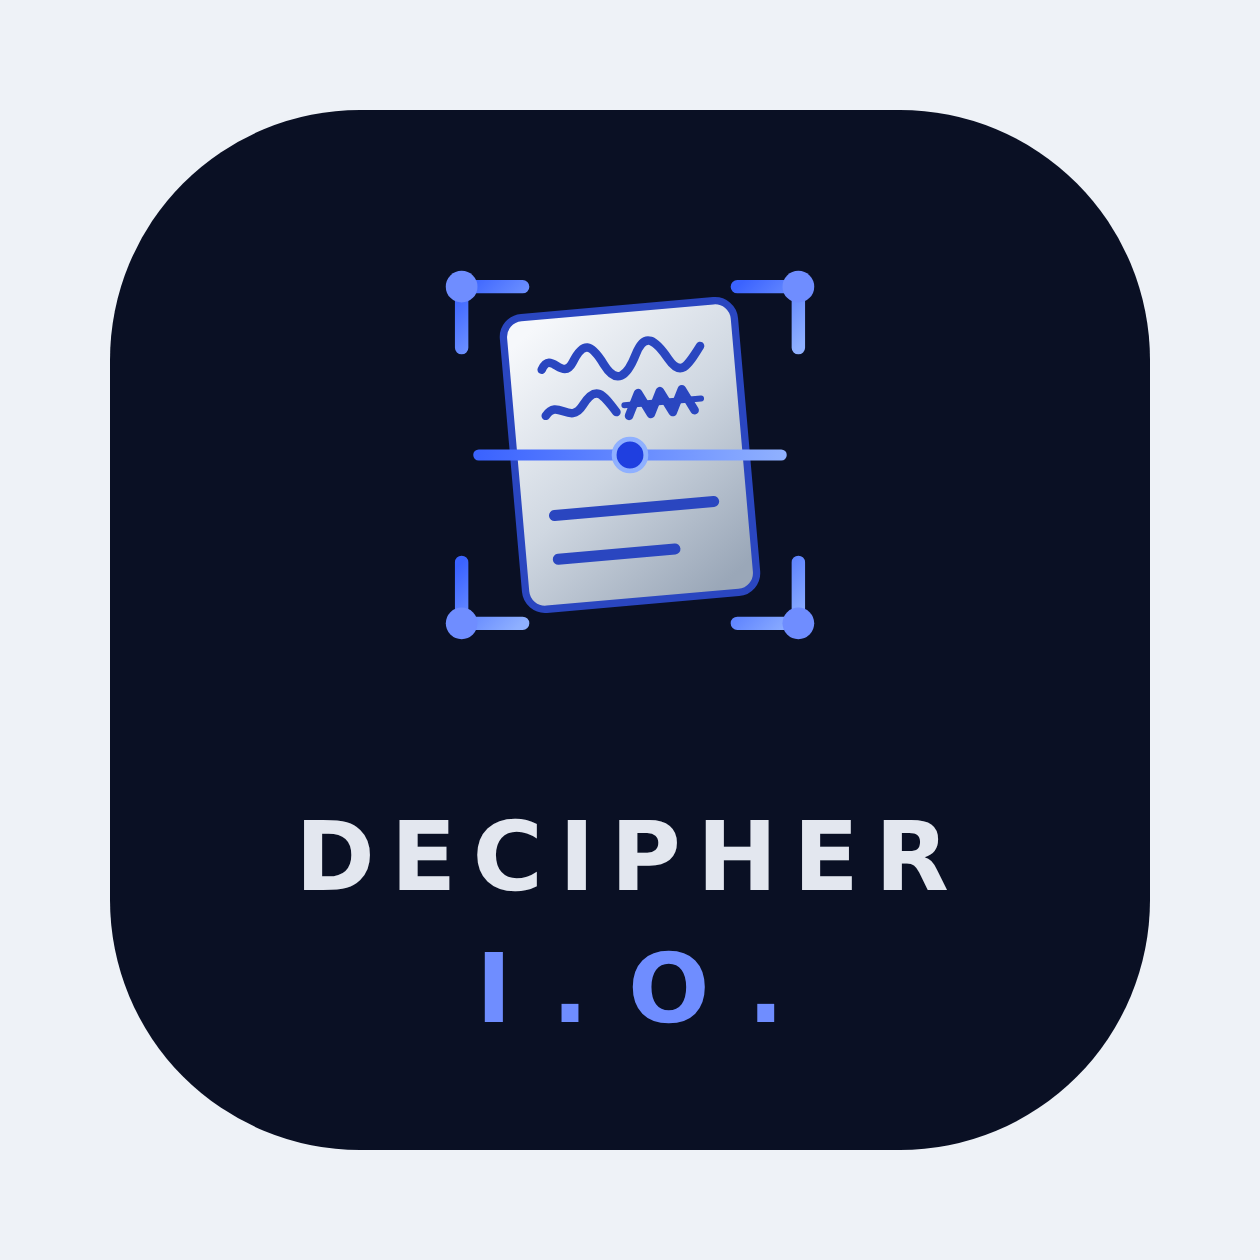
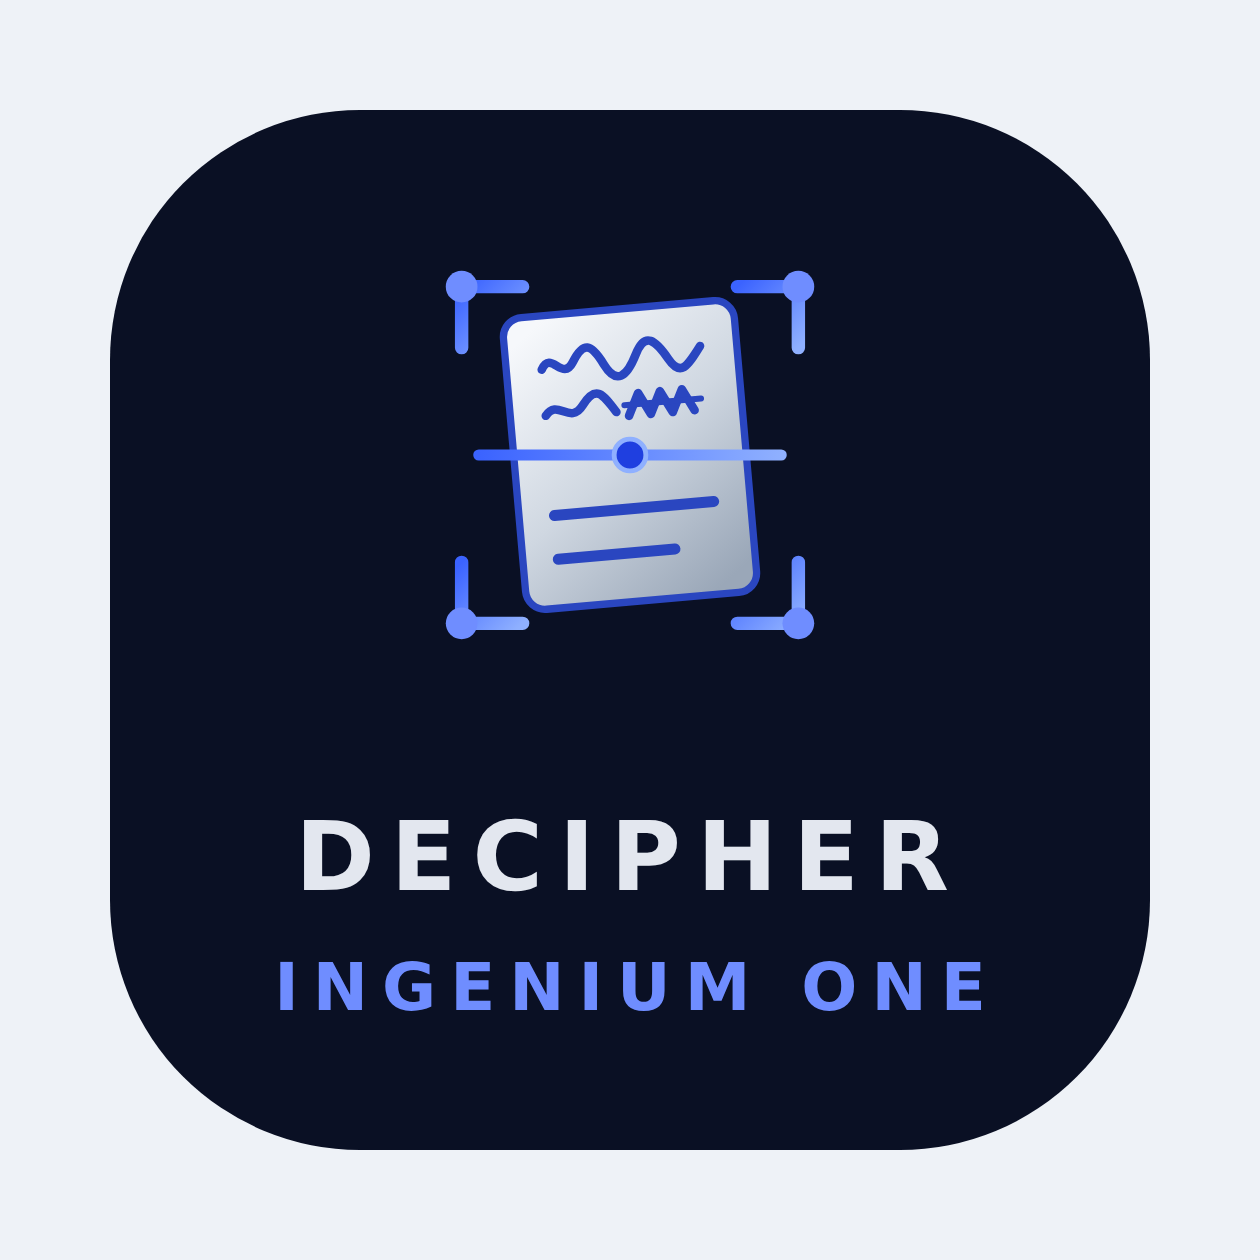
Name the scanner Ingenium One Decipher (I.O. Decipher for short)
Claude-Session: https://claude.ai/code/session_0196AwzrgpZSjCK2EUMr7j71

Changed region(s): [[0.2167, 0.7429, 0.7738, 0.8357]]

diff --git a/server.js b/server.js
@@ -158,7 +158,7 @@ function brainData() {
   }
   // Notes Scanner node: handwriting in, clean entries saved here (idempotent).
   if (!store.brain.nodes.some((n) => n.id === "scanner")) {
-    store.brain.nodes.push(mk("scanner", "Decipher", "knowledge", "building", "I.O. Decipher: snap a page of handwriting and it gets filed here as one clean, organized entry.", "/scan", 230, 20));
+    store.brain.nodes.push(mk("scanner", "I.O. Decipher", "knowledge", "building", "Ingenium One Decipher: snap a page of handwriting and it gets filed here as one clean, organized entry.", "/scan", 230, 20));
     store.brain.links.push({ a: "core", b: "scanner" });
     save();
   }
@@ -167,6 +167,12 @@ function brainData() {
     const sc = store.brain.nodes.find((n) => n.id === "scanner");
     if (sc && sc.title === "Notes Scanner") { sc.title = "Decipher"; sc.desc = "I.O. Decipher: snap a page of handwriting and it gets filed here as one clean, organized entry."; }
     store.brain.mig.decipherName = true;
+    save();
+  }
+  if (!store.brain.mig.decipherName2) {
+    const sc = store.brain.nodes.find((n) => n.id === "scanner");
+    if (sc && (sc.title === "Decipher" || sc.title === "Notes Scanner")) { sc.title = "I.O. Decipher"; sc.desc = "Ingenium One Decipher: snap a page of handwriting and it gets filed here as one clean, organized entry."; }
+    store.brain.mig.decipherName2 = true;
     save();
   }
   // The Playbook: a readable, nested reference. Sections hold entries. Seed Philosophy > Stoicism.
@@ -1100,6 +1106,14 @@ function hubData() {
     const plan = store.hub.plans.find((x) => x.id === "scanner");
     if (plan) plan.title = "Decipher: handwriting to Brain entries";
     store.hub.mig.decipherBrand = true;
+    save();
+  }
+  if (!store.hub.mig.decipherName2) {
+    const app = store.hub.apps.find((x) => x.id === "scanner");
+    if (app && app.name === "Decipher") app.name = "I.O. Decipher";
+    const plan = store.hub.plans.find((x) => x.id === "scanner");
+    if (plan) plan.title = "I.O. Decipher: handwriting to Brain entries";
+    store.hub.mig.decipherName2 = true;
     save();
   }
   return store.hub;

diff --git a/public/scan.html b/public/scan.html
@@ -6,8 +6,8 @@
 <meta name="theme-color" content="#0B0C0F">
 <meta name="apple-mobile-web-app-capable" content="yes">
 <meta name="apple-mobile-web-app-status-bar-style" content="black-translucent">
-<meta name="apple-mobile-web-app-title" content="Decipher">
-<title>I.O. Decipher</title>
+<meta name="apple-mobile-web-app-title" content="I.O. Decipher">
+<title>Ingenium One Decipher</title>
 <link rel="icon" href="/brand/decipher/icon-32.png">
 <link rel="apple-touch-icon" href="/brand/decipher/icon-180.png">
 <link rel="preconnect" href="https://fonts.googleapis.com">
@@ -153,7 +153,7 @@
 <!-- Passcode (same one as the Brain) -->
 <section id="gate" class="screen">
   <img src="/brand/decipher/icon-192.png" alt="" width="88" height="88" style="border-radius:20px">
-  <div class="hd" style="font-size:24px">I.O. Decipher</div>
+  <div class="hd" style="font-size:24px">Ingenium One Decipher</div>
   <p class="muted" style="margin:0;max-width:300px;line-height:21px">Use your Brain passcode.</p>
   <form id="gateForm" style="display:contents">
     <label for="pass" class="sr">Passcode</label>
@@ -216,7 +216,7 @@
 <section id="list" class="screen">
   <div style="display:flex;align-items:flex-end;justify-content:space-between;padding:0 4px">
     <div style="display:flex;flex-direction:column;gap:2px">
-      <a href="/brain" class="muted" style="font-size:13px;text-decoration:none;display:flex;align-items:center;gap:6px"><img src="/brand/decipher/icon-32.png" alt="" width="18" height="18" style="border-radius:5px">Decipher · The Brain</a>
+      <a href="/brain" class="muted" style="font-size:13px;text-decoration:none;display:flex;align-items:center;gap:6px"><img src="/brand/decipher/icon-32.png" alt="" width="18" height="18" style="border-radius:5px">I.O. Decipher · The Brain</a>
       <div class="hd" style="font-size:28px">Notes</div>
     </div>
   </div>

diff --git a/public/brain.html b/public/brain.html
@@ -108,7 +108,7 @@
 <div id="bar">
   <div class="brandrow"><span class="dotmk"></span><div><b>The Brain</b><br><span>your command center</span></div></div>
   <div class="sp"></div>
-  <a class="btn" href="/scan" title="Decipher: scan handwritten notes into the Brain" style="text-decoration:none">📝 Notes</a>
+  <a class="btn" href="/scan" title="I.O. Decipher: scan handwritten notes into the Brain" style="text-decoration:none">📝 Notes</a>
   <button class="btn" id="bookBtn" title="Your playbook">📖 Playbook</button>
   <button class="btn" id="nextBtn" title="Where to go from here">🧭 What's next</button>
   <button class="btn" id="connectBtn" title="Wire two nodes together">🔗 Connect</button>
